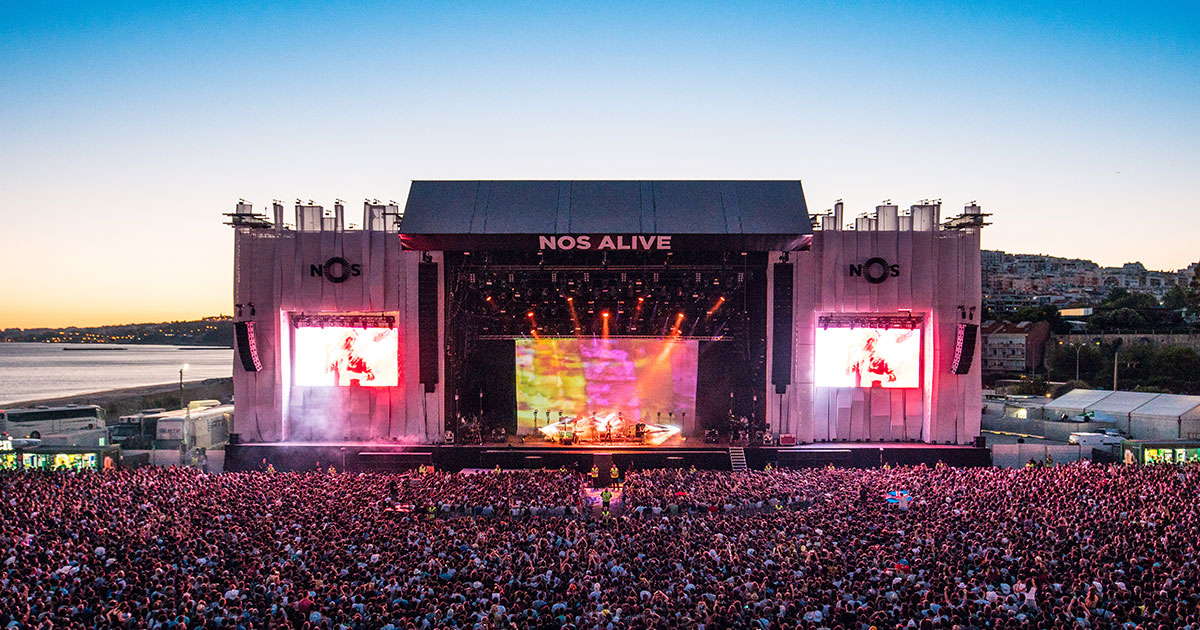
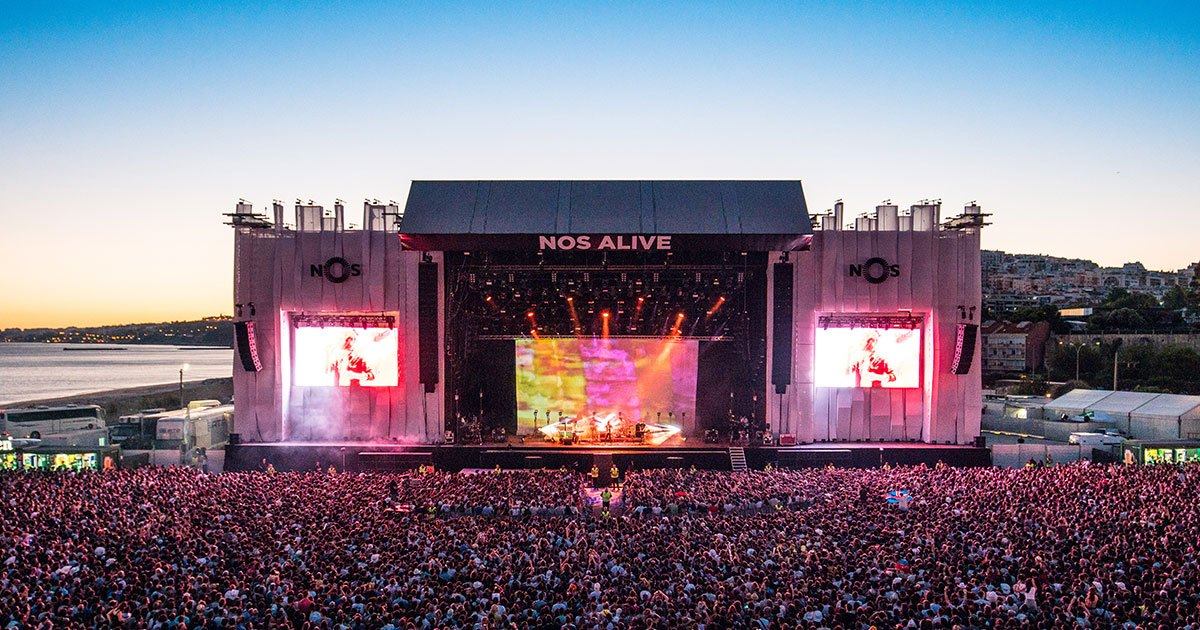
Compress images manually

diff --git a/src/reducers/events.ts b/src/reducers/events.ts
@@ -48,7 +48,7 @@ const events: Event[] = [
     description: "Try your best",
     date: new Date(),
     images: [
-      "/images/escapeRooms/wrongOne/wrongOneLogo.png",
+      "/images/escapeRooms/wrongOne/wrongOneLogo.jpg",
       "/images/escapeRooms/wrongOne/wrongOne.jpg",
       "/images/escapeRooms/wrongOne/wrongOne2.jpg",
       "/images/escapeRooms/wrongOne/wrongOne3.jpg",
@@ -66,7 +66,7 @@ const events: Event[] = [
     description: "Try your best",
     date: new Date(),
     images: [
-      "/images/escapeRooms/wrongOne/wrongOneLogo.png",
+      "/images/escapeRooms/wrongOne/wrongOneLogo.jpg",
       "/images/escapeRooms/wrongOne/wrongOne.jpg",
       "/images/escapeRooms/wrongOne/wrongOne2.jpg",
       "/images/escapeRooms/wrongOne/wrongOne3.jpg",
@@ -84,7 +84,7 @@ const events: Event[] = [
     description: "Try your best",
     date: new Date(),
     images: [
-      "/images/escapeRooms/wrongOne/wrongOneLogo.png",
+      "/images/escapeRooms/wrongOne/wrongOneLogo.jpg",
       "/images/escapeRooms/wrongOne/wrongOne.jpg",
       "/images/escapeRooms/wrongOne/wrongOne2.jpg",
       "/images/escapeRooms/wrongOne/wrongOne3.jpg",
@@ -102,7 +102,7 @@ const events: Event[] = [
     description: "Try your best",
     date: new Date(),
     images: [
-      "/images/escapeRooms/wrongOne/wrongOneLogo.png",
+      "/images/escapeRooms/wrongOne/wrongOneLogo.jpg",
       "/images/escapeRooms/wrongOne/wrongOne.jpg",
       "/images/escapeRooms/wrongOne/wrongOne2.jpg",
       "/images/escapeRooms/wrongOne/wrongOne3.jpg",
@@ -120,7 +120,7 @@ const events: Event[] = [
     description: "Try your best",
     date: new Date(),
     images: [
-      "/images/escapeRooms/wrongOne/wrongOneLogo.png",
+      "/images/escapeRooms/wrongOne/wrongOneLogo.jpg",
       "/images/escapeRooms/wrongOne/wrongOne.jpg",
       "/images/escapeRooms/wrongOne/wrongOne2.jpg",
       "/images/escapeRooms/wrongOne/wrongOne3.jpg",
@@ -138,7 +138,7 @@ const events: Event[] = [
     description: "Try your best",
     date: new Date(),
     images: [
-      "/images/escapeRooms/wrongOne/wrongOneLogo.png",
+      "/images/escapeRooms/wrongOne/wrongOneLogo.jpg",
       "/images/escapeRooms/wrongOne/wrongOne.jpg",
       "/images/escapeRooms/wrongOne/wrongOne2.jpg",
       "/images/escapeRooms/wrongOne/wrongOne3.jpg",
@@ -156,7 +156,7 @@ const events: Event[] = [
     description: "Try your best",
     date: new Date(),
     images: [
-      "/images/escapeRooms/wrongOne/wrongOneLogo.png",
+      "/images/escapeRooms/wrongOne/wrongOneLogo.jpg",
       "/images/escapeRooms/wrongOne/wrongOne.jpg",
       "/images/escapeRooms/wrongOne/wrongOne2.jpg",
       "/images/escapeRooms/wrongOne/wrongOne3.jpg",

diff --git a/webpack.config.js b/webpack.config.js
@@ -1,4 +1,4 @@
-const DEPLOY = false;
+const DEPLOY = true;
 
 const path = require( "path" );
 const webpack = require( "webpack" );
@@ -63,7 +63,7 @@ module.exports = {
         return Buffer.from( source.toString().replace( /\/index\.js/g, "/ipm-project/index.js" ) );
       }
     } ),
-    new webpack.HotModuleReplacementPlugin()
+    !DEPLOY && new webpack.HotModuleReplacementPlugin()
   ].filter( Boolean ),
   devServer: {
     contentBase: path.join( __dirname, "dist" ),
